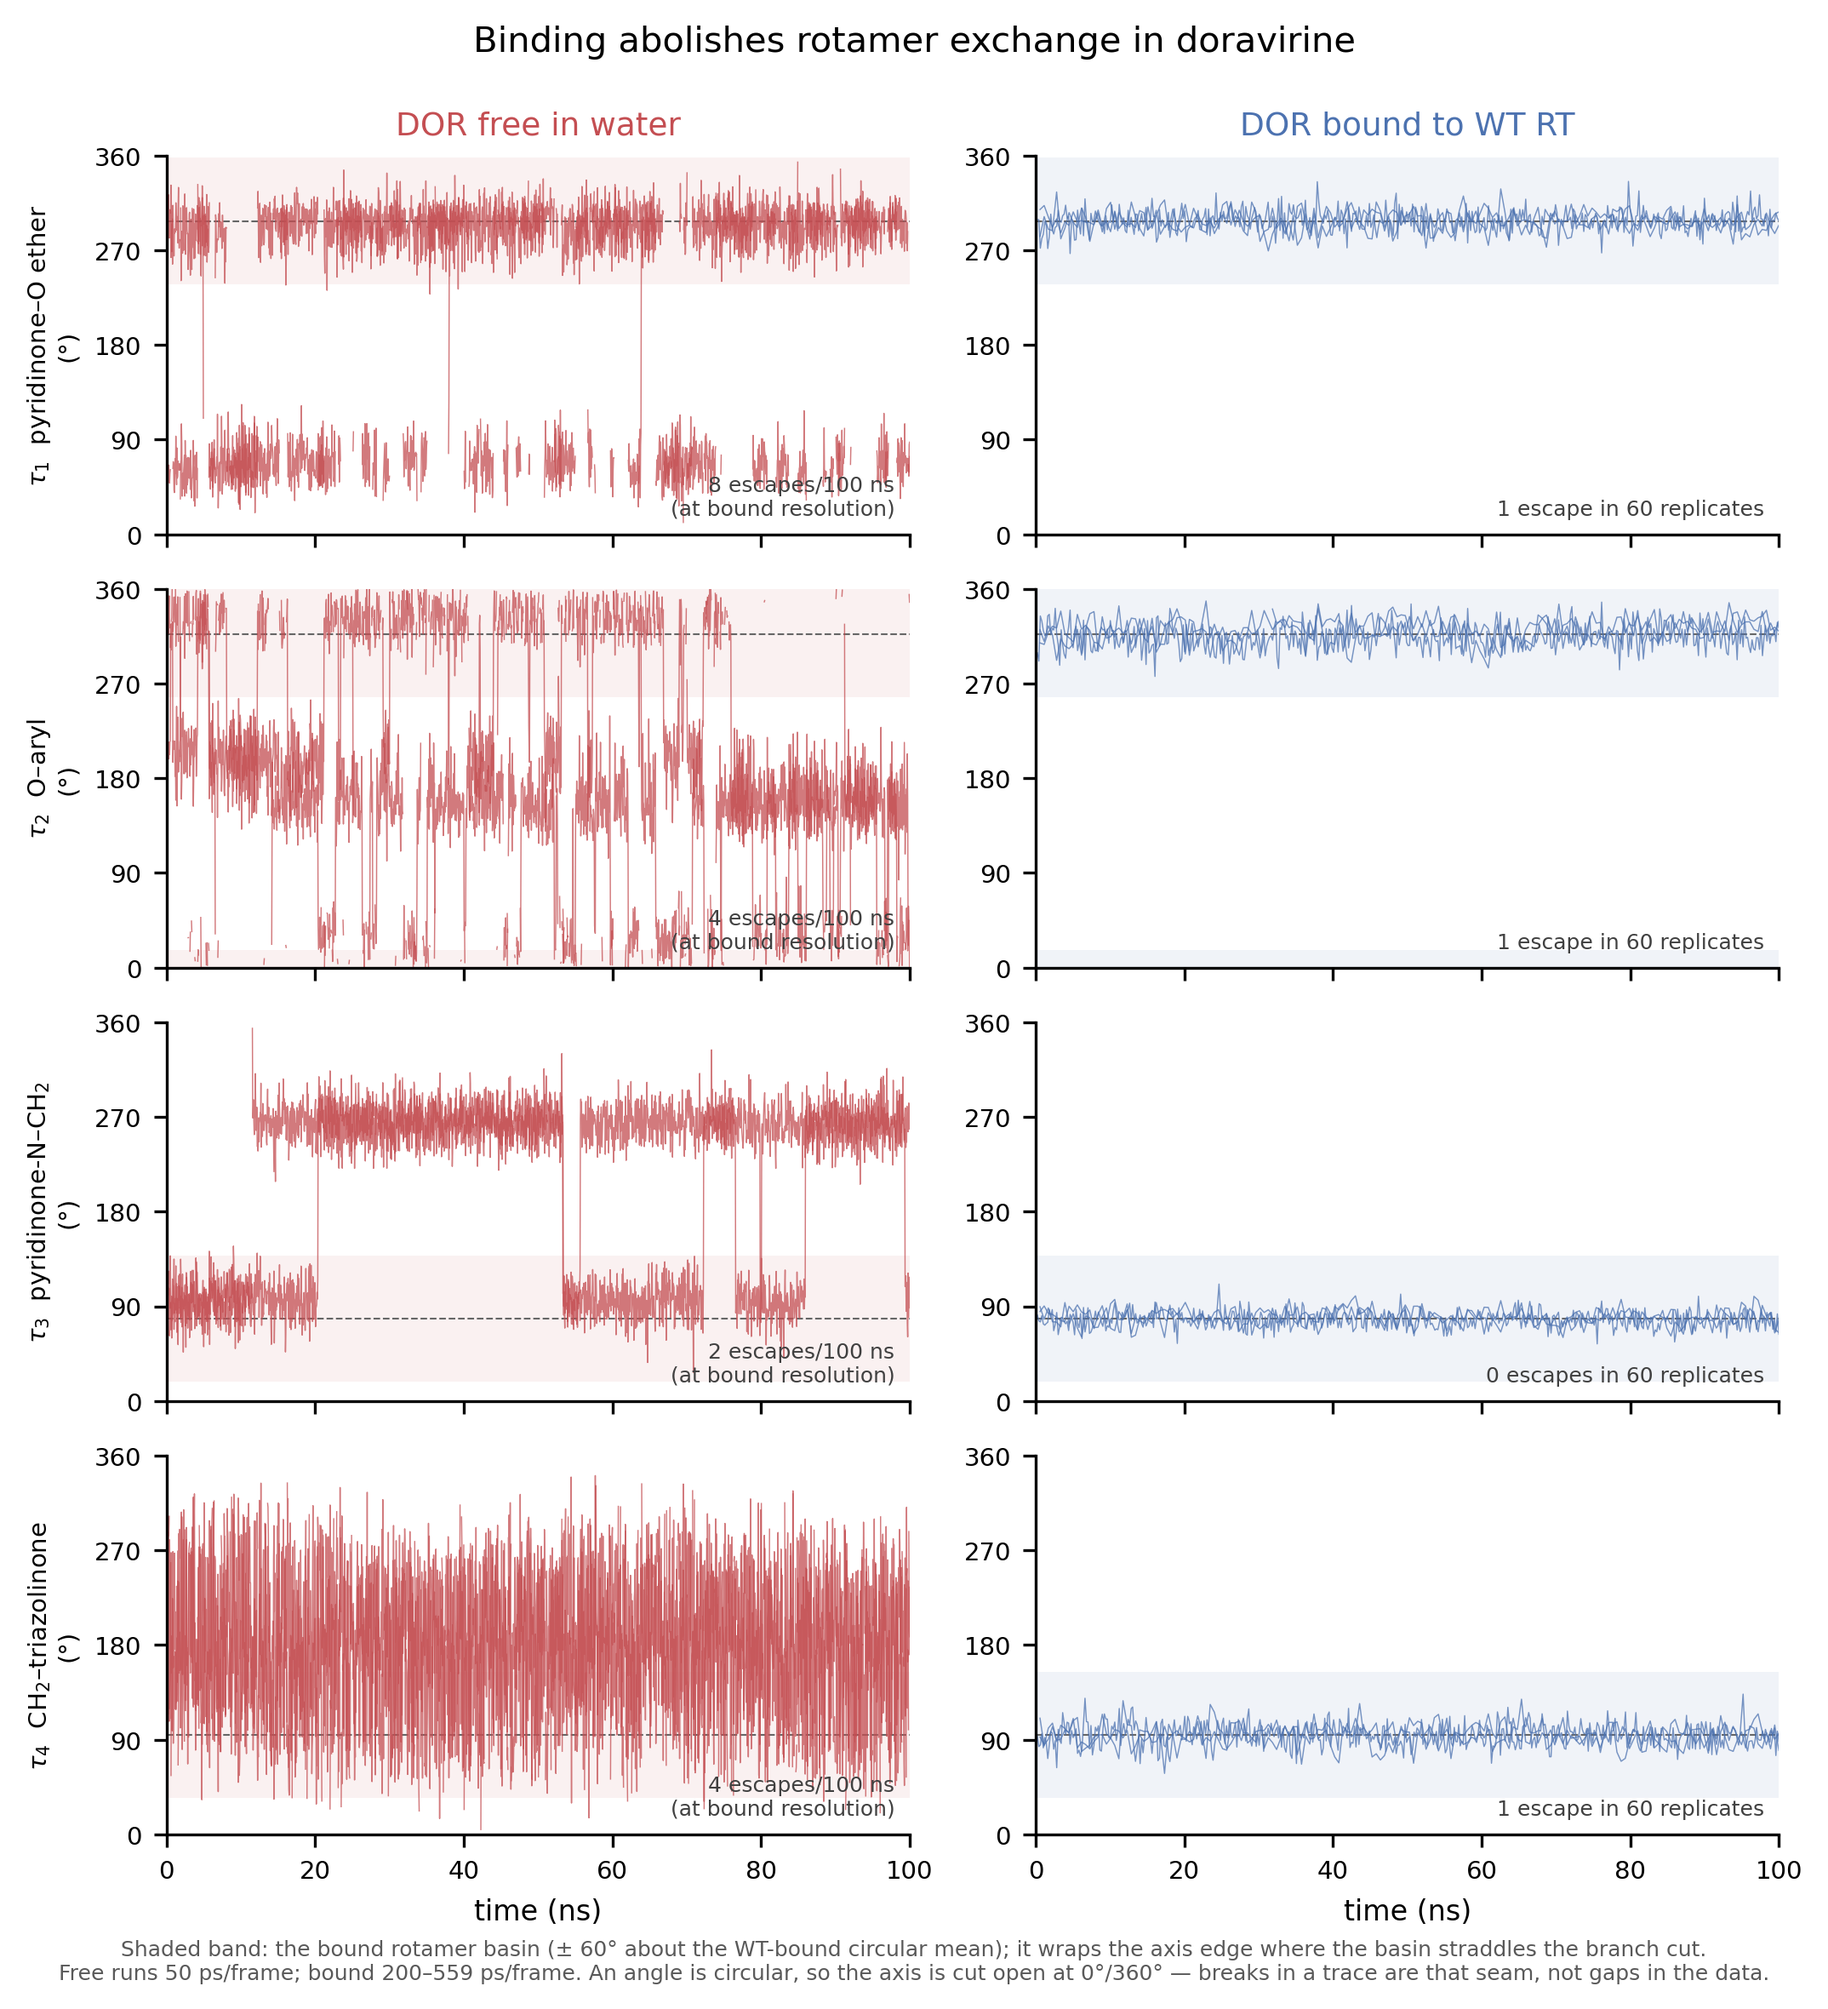
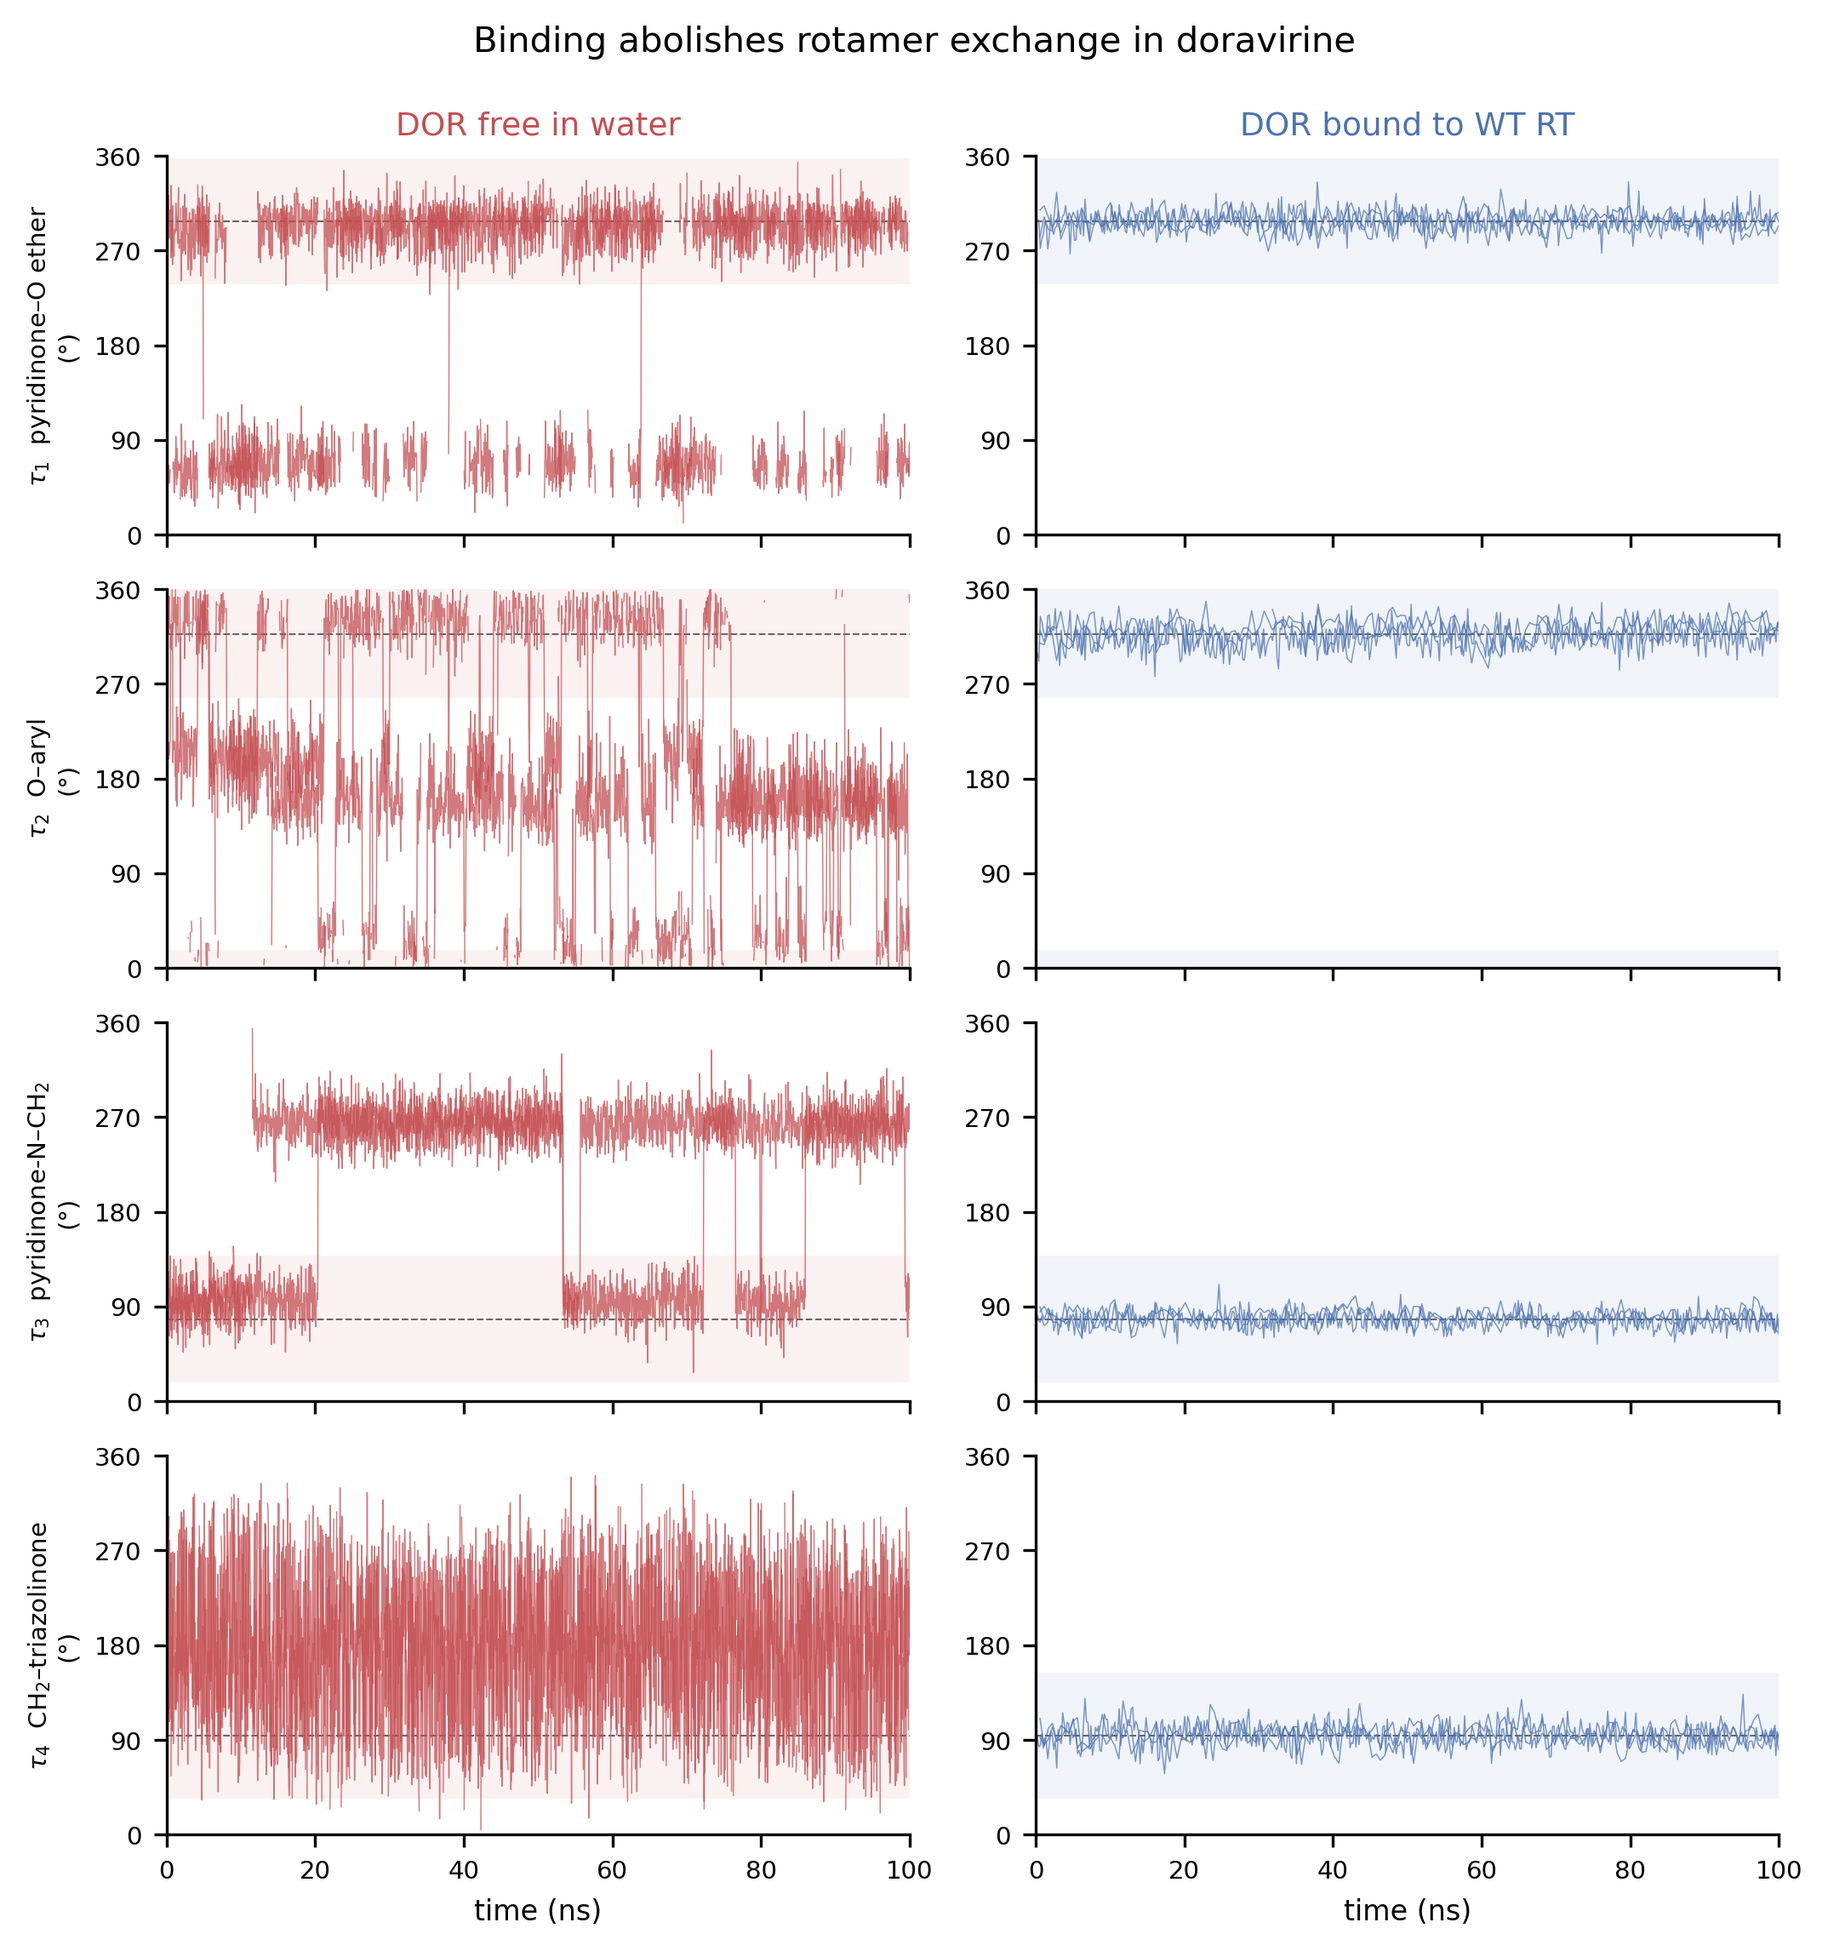
Strip the in-figure text: it belongs in the caption
Removes the footnote describing the shaded band and the per-panel escape-rate
annotations. Both forced the reader into 6 pt type to extract numbers that are
already in dor_torsion_kinetics.csv and in the memo, and the panels read
better without them.

diff --git a/src/nnrti/cli/plot_dor_torsion_kinetics.py b/src/nnrti/cli/plot_dor_torsion_kinetics.py
@@ -254,30 +254,7 @@ def main(argv: list[str] | None = None) -> int:
                 ax.set_ylabel(f"{TAU_LABELS[t]}\n(°)", fontsize=7)
             if i == 3:
                 ax.set_xlabel("time (ns)")
-            # escape rate annotation, at matched resolution for the free column
-            if j == 0:
-                vals = []
-                for rep, g in g_all.groupby("replicate"):
-                    a = g[t].to_numpy()
-                    idx = np.linspace(0, len(a) - 1, 180).astype(int)
-                    vals.append(count_escapes(a[idx], c)[0])
-                txt = f"{np.mean(vals):.0f} escapes/100 ns\n(at bound resolution)"
-            else:
-                vals = [count_escapes(g.sort_values("frame")[t].to_numpy(), c)[0]
-                        for _, g in bound_all.groupby(["safe_label", "replicate"])]
-                txt = f"{np.sum(vals):.0f} escape in 60 replicates" if np.sum(vals) == 1 \
-                    else f"{np.sum(vals):.0f} escapes in 60 replicates"
-            ax.text(0.98, 0.04, txt, transform=ax.transAxes, ha="right", va="bottom",
-                    fontsize=6, color="0.25")
     fig.suptitle("Binding abolishes rotamer exchange in doravirine", y=0.995, fontsize=10)
-    fig.text(0.5, -0.012,
-             "Shaded band: the bound rotamer basin (± %.0f° about the WT-bound circular mean); "
-             "it wraps the axis edge where the basin straddles the branch cut.\n"
-             "Free runs 50 ps/frame; bound 200–559 ps/frame. An angle is circular, so the "
-             "axis is cut open at %s — breaks in a trace are that seam, not gaps in the data."
-             % (BASIN_HALF_WIDTH,
-                "0°/360°" if args.angle_frame == "positive" else "its emptiest angle"),
-             ha="center", fontsize=6, color="0.35")
     fig.tight_layout()
     args.output_dir.mkdir(parents=True, exist_ok=True)
     f1 = args.output_dir / "dor_torsion_trajectories.png"
